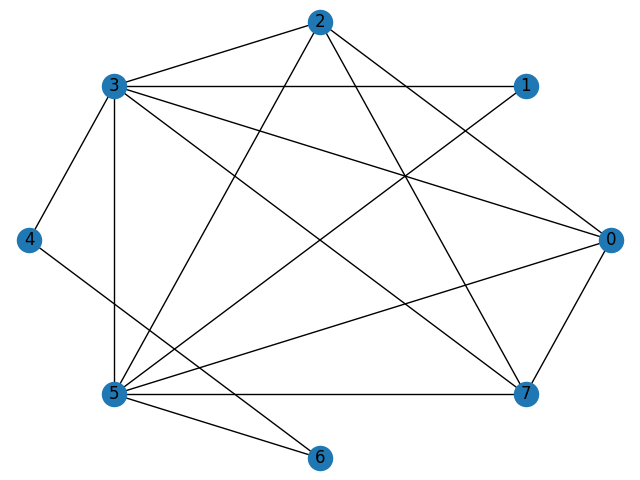
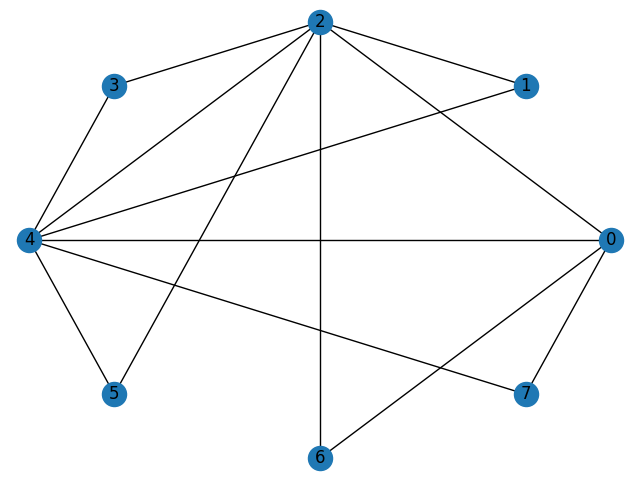
Implement generate_eulerian()

diff --git a/graphly/generator/generator.py b/graphly/generator/generator.py
@@ -117,12 +117,15 @@ def generate_eulerian(vertices_num=random.randint(4, 50)):
     """
     max_degree = vertices_num - 2 if vertices_num % 2 == 0 else vertices_num - 1
 
-    seq = []
-    for vertex in range(vertices_num):
-        seq.append(random.randrange(2, max_degree + 1, 2))  # all vertices of even degree
+    seq = None
+    is_degree_seq = False
+    while not is_degree_seq:
+        seq = []
+        for vertex in range(vertices_num):
+            seq.append(random.randrange(2, max_degree + 1, 2))  # all vertices of even degree
 
-    print(seq)
+        is_degree_seq = algorithm.is_degree_seq(seq)
 
-    if algorithm.is_degree_seq(seq):
-        g = graph.from_degree_seq(seq)
-        return g
+    g = graph.from_degree_seq(seq)
+
+    return g

diff --git a/examples/find_euler_circut_example.py b/examples/find_euler_circut_example.py
@@ -1,10 +1,7 @@
 from graphly.generator import generator
 from graphly.algorithm import algorithm
-from graphly.graph import graph
 
-# g = graph.from_file("eulerian_graph.json")
 
-g = generator.generate("eulerian")
+g = generator.generate("eulerian", 8)
 print(algorithm.is_eulerian(g))
-g = generator.generate_eulerian(8)
 g.plot("eulerian.png")
